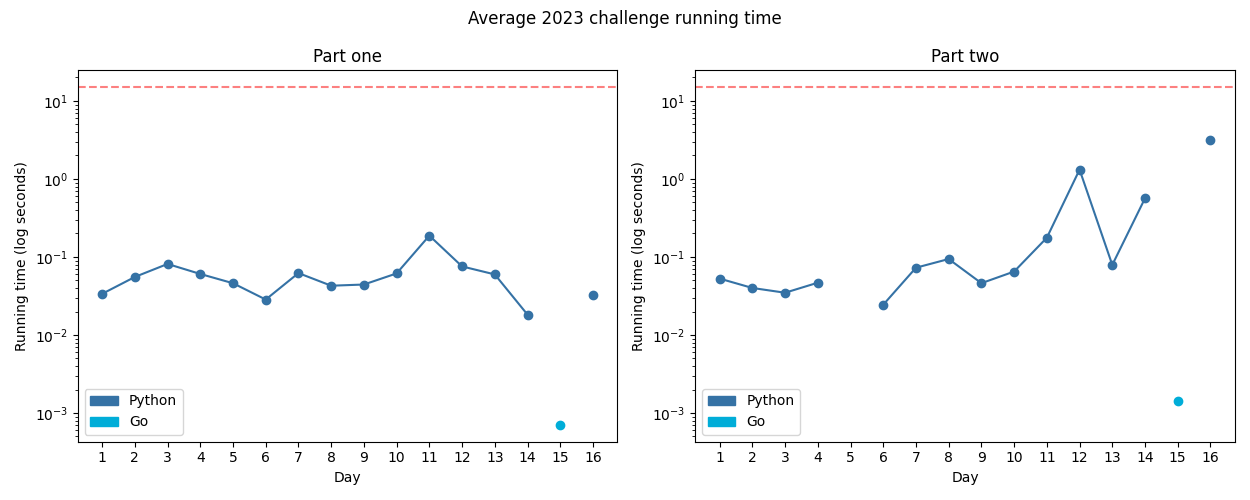
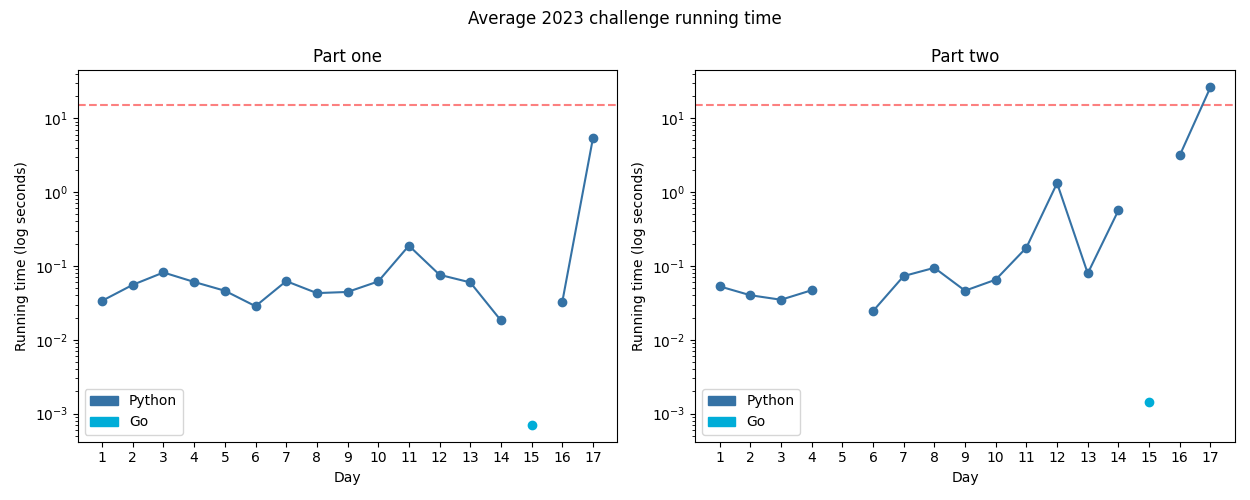
2023.17

diff --git a/challenges/2023/17-clumsyCrucible/main.py b/challenges/2023/17-clumsyCrucible/main.py
@@ -1,6 +1,9 @@
 import sys
 import gridutil.grid as gu
 import gridutil.coord as cu
+from collections.abc import Callable, Iterator
+from collections import namedtuple
+from queue import PriorityQueue
 
 
 def parse(instr: str) -> gu.Grid:
@@ -8,63 +11,116 @@ def parse(instr: str) -> gu.Grid:
     return {k: int(g[k]) for k in g}
 
 
-def get_shortest_path(grid: gu.Grid, start: cu.Coordinate, end: cu.Coordinate) -> list[cu.Coordinate]:
-    d = {start: (0, 0, cu.Direction.Right)}
+State = namedtuple("State", ["pos", "steps_taken", "direction"])
+
+
+def djikstra(
+    start: State,
+    end: Callable[[State], bool],
+    neighbours: Callable[[State], Iterator[State, None, None]],
+    cost: Callable[[State, State], int],
+) -> list[State]:
+    dq = PriorityQueue()
+    dq.put((0, start))
+    d = {start: 0}
     p = {}
-    f = {}
 
-    while end not in d:
-        w = min(filter(lambda x: x[0] not in f, d.items()), key=lambda x: x[1][0])[0]
-        f[w] = None
+    endState = None
+    while endState is None:
+        w = dq.get()[1]
 
-        dist_w, prev_steps, prev_direction = d[w]
-
-        for direction in cu.Direction:
-            if (direction == prev_direction and prev_steps == 3) or direction == prev_direction.opposite():
-                continue
-            u = cu.add(w, direction.delta())
-            if u not in grid:
-                continue
-
-            if u not in d or dist_w + grid[u] < d[u][0]:
-                d[u] = (dist_w + grid[u], prev_steps + 1 if direction == prev_direction else 1, direction)
+        for u in neighbours(w):
+            c = d[w] + cost(w, u)
+            if u not in d or c < d[u]:
+                d[u] = c
+                dq.put((c, u))
                 p[u] = w
 
-                if u == end:
+                if end(u):
+                    endState = u
                     break
 
-        # raise SystemExit(14)
-
-    res = [end]
-    cursor = p[end]
-    while cursor != start:
+    res = [endState]
+    cursor = p[endState]
+    while cursor is not None:
         res.append(cursor)
-        cursor = p[cursor]
+        cursor = p.get(cursor)
     return list(reversed(res))
 
 
 def one(instr: str):
     grid = parse(instr)
     end = (gu.get_max_x(grid), gu.get_max_y(grid))
-    path = get_shortest_path(grid, (0, 0), end)
 
-    gu.print_grid(grid, file=sys.stderr)
-    _debug()
+    def neighbours(node: State) -> Iterator[State, None, None]:
+        for direction in cu.Direction:
+            if (
+                direction == node.direction and node.steps_taken == 3
+            ) or node.direction == direction.opposite():
+                continue
 
-    g = grid.copy()
-    for p in path:
-        g[p] = "█"
+            nc = cu.add(node.pos, direction.delta())
+            if nc not in grid:
+                continue
 
-    gu.print_grid(g, file=sys.stderr)
+            yield State(
+                nc,
+                (node.steps_taken + 1) if direction == node.direction else 1,
+                direction,
+            )
+
+    path = djikstra(
+        State((0, 0), 0, cu.Direction.Right),
+        lambda x: x.pos == end,
+        neighbours,
+        lambda _, x: grid[x.pos],
+    )[1:]
 
     acc = 0
     for node in path:
-        acc += grid[node]
+        acc += grid[node.pos]
     return acc
 
 
 def two(instr: str):
-    return
+    grid = parse(instr)
+    end = (gu.get_max_x(grid), gu.get_max_y(grid))
+
+    for x in range(end[0] - 3, end[0]):
+        for y in range(end[1] - 3, end[1]):
+            del grid[(x, y)]
+
+    def neighbours(node: State) -> Iterator[State, None, None]:
+        for direction in cu.Direction:
+            if 0 < node.steps_taken < 4 and direction != node.direction:
+                continue
+
+            if (
+                direction == node.direction and node.steps_taken == 10
+            ) or node.direction == direction.opposite():
+                continue
+
+            nc = cu.add(node.pos, direction.delta())
+            if nc not in grid:
+                continue
+
+            yield State(
+                nc,
+                (node.steps_taken + 1) if direction == node.direction else 1,
+                direction,
+            )
+
+    path = djikstra(
+        State((0, 0), 0, cu.Direction.Right),
+        lambda x: x.pos == end,
+        neighbours,
+        lambda _, x: grid[x.pos],
+    )[1:]
+
+    acc = 0
+    for node in path:
+        acc += grid[node.pos]
+    return acc
 
 
 def _debug(*args, **kwargs):

diff --git a/gridutil/coord.py b/gridutil/coord.py
@@ -16,6 +16,11 @@ def sub(a: Coordinate, b: Coordinate) -> Coordinate:
     return xa - xb, ya - yb
 
 
+def manhattan_dist(a: Coordinate, b: Coordinate) -> Coordinate:
+    x, y = sub(b, a)
+    return abs(x) + abs(y)
+
+
 class Direction(Enum):
     Up = auto()
     Down = auto()
@@ -43,3 +48,12 @@ class Direction(Enum):
                 return Direction.Right
             case Direction.Right:
                 return Direction.Left
+    
+    def __lt__(self, x):
+        return False
+
+    def __eq__(self, x):
+        return self.value == x.value
+
+    def __hash__(self):
+        return hash(self.value)
